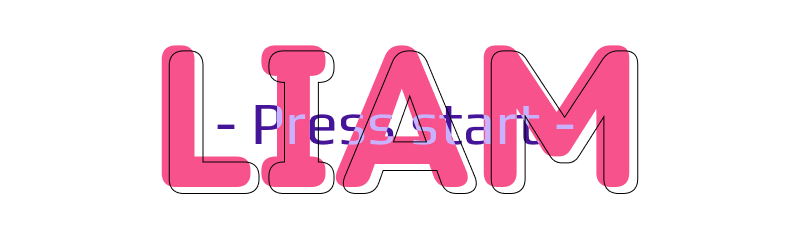
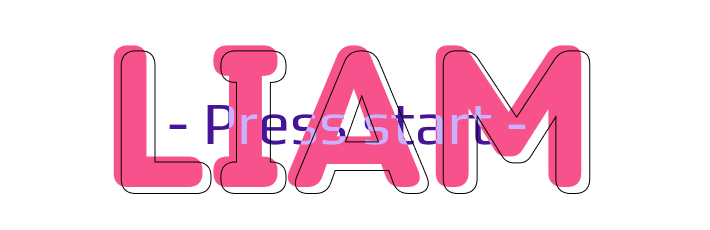
changed images and fixed responsivity

Changed region(s): [[0.1549, 0.1826, 0.8366, 0.8522]]

diff --git a/src/components/EnterRoom.tsx b/src/components/EnterRoom.tsx
@@ -10,7 +10,6 @@ interface Character {
   description: string;
   path: string;
   img: string;
-  imgWalking: string;
   door: string;
   openDoor: string;
 }
@@ -24,9 +23,8 @@ function EnterRoom() {
         "Milou, 17 år, älskar alla typer av spel och har startat en spelförening med sina vänner. Hans dröm vore att träffa en tjej med samma intressen men trots hans försök har han inte lyckats charma någon. Lika mycket energi lägger han inte på sitt skolarbete, vilket hans lärare och föräldrar ofta påpekar.",
       path: "/roomone",
       img: "/Char1_FBody.png",
-      imgWalking: "/Char1_FBody_Walk.png",
-      door: "/Char1_Door.png",
-      openDoor: "/Char1_Door_Open.png",
+      door: "/char1_w_door.png",
+      openDoor: "/char1_w_door_open.png",
     },
     {
       name: "Liam",
@@ -35,9 +33,8 @@ function EnterRoom() {
         "Sedan Liam, 20 år, hoppade av gymnasiet har det varit svårt för honom att hamna rätt. Alla chefer han har haft är dumma i huvudet och att flytta hemifrån verkar vara omöjligt. Han har en flickvän men även hon har börjat vända sig emot honom.",
       path: "/roomtwo",
       img: "/Char2_FBody.png",
-      imgWalking: "/Char2_FBody_Walk.png",
-      door: "/Char2_Door.png",
-      openDoor: "/Char2_Door_Open.png",
+      door: "/char2_w_door.png",
+      openDoor: "/char2_w_door_open.png",
     },
     {
       name: "Polka",
@@ -46,15 +43,14 @@ function EnterRoom() {
         "Polka, 18 år, är stolt samlare av limited edition plushies och japanska rollspel. Hon har alltid gillat spelkultur och följer flera cosplayers på sociala medier. Hon hade gärna cosplayat själv men har aldrig haft några nära vänner och inte vågat åka på konvent ensam. Nu har hon dock bestämt sig för att börja våga mer och börja streama hennes favoritspel.",
       path: "/roomthree",
       img: "/Char3_FBody.png",
-      imgWalking: "/Char3_FBody_Walk.png",
-      door: "/Char3_Door.png",
-      openDoor: "/Char3_Door_Open.png",
+      door: "/char3_w_door.png",
+      openDoor: "/char3_w_door_open.png",
     },
   ];
 
   return (
     <div className="w-full">
-      <ul className="m-4">
+      <ul className="m-4 mx-auto">
         {characters.map((character) => {
           return (
             <li
@@ -67,14 +63,75 @@ function EnterRoom() {
             >
               <div
                 className={`${
-                  character.name === "Liam" ? "md:ml-[100px]" : "md:mr-10"
-                }  mt-8 sm:max-w-[80%] md:max-w-[40%] xl:max-w-[30%]`}
+                  character.name === "Liam" ? "md:ml-[80px]" : "md:mr-20"
+                }  mt-8 max-w-[90%] sm:max-w-[70%] md:max-w-[40%] xl:max-w-[25%]`}
               >
-                <img
-                  className="h-auto max-w-full"
-                  src={character.nameImg}
-                  alt={character.name}
-                />
+                <div className="relative">
+                  <img
+                    className="h-auto max-w-full pt-0 md:pt-0"
+                    src={character.nameImg}
+                    alt={character.name}
+                  />
+                  {character.name === "Polka" ? (
+                    <div className="absolute top-0 left-0 h-full w-full">
+                      <motion.div
+                        className="relative top-0 -left-[10px] inline-block"
+                        initial={{ x: 0, y: 0 }}
+                        animate={{
+                          x: [0, 10, 0],
+                          y: [0, -5, 0],
+                          rotate: [0, 15, 0],
+                        }}
+                        transition={{
+                          duration: 5,
+                          repeat: Infinity,
+                        }}
+                      >
+                        <img
+                          alt="Körsbärsblomma"
+                          src="/sakura.png"
+                          className="h-[25px] w-[25px]"
+                        />
+                      </motion.div>
+                      <motion.div
+                        className="relative top-[70%] left-[20%] inline-block"
+                        initial={{ y: 0 }}
+                        animate={{ y: [0, 5, 0], rotate: [0, -15, 0] }}
+                        transition={{
+                          duration: 4,
+                          repeat: Infinity,
+                        }}
+                      >
+                        <img
+                          alt="Körsbärsblomma"
+                          src="/sakura.png"
+                          className="h-[20px] w-[20px]"
+                        />
+                      </motion.div>
+                      <motion.div
+                        className="relative -top-[10%] left-[75%] inline-block md:-top-[20%] md:left-[80%]"
+                        initial={{ y: 0 }}
+                        animate={{
+                          y: [0, 15, 0],
+                          rotate: [0, -5, 0],
+                        }}
+                        transition={{
+                          duration: 4,
+                          repeat: Infinity,
+                        }}
+                      >
+                        <img
+                          alt="Körsbärsblomma"
+                          src="/sakura.png"
+                          className="h-[20px] w-[20px] md:h-[30px] md:w-[30px]"
+                        />
+                      </motion.div>
+                    </div>
+                  ) : (
+                    ""
+                  )}
+                </div>
+
                 <div className="flex h-[25px] max-w-full justify-between bg-gradient-to-t from-primary to-primary bg-[length:100%_2px] bg-center bg-no-repeat">
                   <img
                     src="/sparkle.png"
@@ -98,11 +155,11 @@ function EnterRoom() {
               <nav>
                 <Link
                   href={character.path}
-                  className="maw-w-full mt-8 flex flex-col justify-center"
+                  className="relative flex h-[450px] w-[270px] flex-col items-end sm:h-[500px] sm:w-[300px]  md:h-[600px] md:w-[370px]"
                 >
-                  <div className="relative h-[500px] w-[250px]">
+                  <div className="relative h-full w-full">
                     {character.name === "Milou" ? (
-                      <div className="absolute top-[50px] left-[20px] w-[50px]">
+                      <div className="absolute top-[100px] left-[15px] w-[25px] md:top-[120px] md:left-0 md:w-[50px]">
                         <ul className="flex flex-col bg-[url('/swirl.png')] bg-cover bg-no-repeat">
                           <motion.li
                             initial={{ y: 0 }}
@@ -116,7 +173,7 @@ function EnterRoom() {
                             <img
                               alt="Musiknot"
                               src="/note2.png"
-                              className="ml-auto h-[30px] max-w-[20px]"
+                              className="ml-auto h-[15px] max-w-[10px] md:h-[30px] md:max-w-[20px]"
                             />
                           </motion.li>
                           <motion.li
@@ -131,7 +188,7 @@ function EnterRoom() {
                             <img
                               alt="Musiknot"
                               src="/note1.png"
-                              className="h-[30px] max-w-[20px]"
+                              className="h-[15px] max-w-[10px] md:h-[30px] md:max-w-[20px]"
                             />
                           </motion.li>
                           <motion.li
@@ -142,21 +199,20 @@ function EnterRoom() {
                             <img
                               alt="Musiknot"
                               src="/note3.png"
-                              className="ml-[30px] h-[30px] max-w-[20px]"
+                              className="ml-[15px] h-[15px] max-w-[10px] md:ml-[30px] md:h-[30px] md:max-w-[20px]"
                             />
                           </motion.li>
                         </ul>
                       </div>
                     ) : (
-                      <div></div>
+                      ""
                     )}
 
                     {character.name === "Liam" ? (
-                      <div className="absolute top-0 left-0 w-full">
+                      <div className="absolute top-0 left-0 h-full w-full">
                         <motion.div
-                          className="relative -top-[10px] right-[50px]"
-                          initial={{ scale: 1 }}
-                          animate={{ scale: [1, 1.1, 1], rotate: [0, -5, 0] }}
+                          className="relative top-[75px] right-0 sm:top-[70px] sm:right-[20px] md:top-[100px] md:right-[5px] lg:top-[50px] lg:right-[70px]"
+                          animate={{ rotate: [0, -5, 0] }}
                           transition={{
                             duration: 3,
                             repeat: Infinity,
@@ -165,75 +221,30 @@ function EnterRoom() {
                           <img
                             alt="Pratbubbla"
                             src="/bubble.png"
-                            className="h-[130px] w-[130px]"
+                            className="h-[50px] w-[50px] sm:h-[80px] sm:w-[80px] lg:h-[130px] lg:w-[130px]"
                           />
                         </motion.div>
                       </div>
                     ) : (
-                      <div></div>
+                      ""
                     )}
 
                     {character.name === "Polka" ? (
-                      <div className="absolute right-0 bottom-0 top-0 left-0 ">
+                      <div className="absolute top-0 left-0 h-full w-full overflow-hidden sm:overflow-visible">
                         <motion.div
-                          className="relative top-0 left-0 inline-block"
-                          initial={{ y: 0 }}
-                          animate={{ y: [0, 10, 0], rotate: [0, 15, 0] }}
-                          transition={{
-                            duration: 5,
-                            repeat: Infinity,
-                          }}
-                        >
-                          <img
-                            alt="Körsbärsblomma"
-                            src="/sakura.png"
-                            className="h-[30px] w-[30px]"
-                          />
-                        </motion.div>
-                        <motion.div
-                          className="relative top-[60px] left-[15px] inline-block"
-                          initial={{ y: 0 }}
-                          animate={{ y: [0, 5, 0], rotate: [0, -15, 0] }}
-                          transition={{
-                            duration: 4,
-                            repeat: Infinity,
-                          }}
-                        >
-                          <img
-                            alt="Körsbärsblomma"
-                            src="/sakura.png"
-                            className="h-[30px] w-[30px]"
-                          />
-                        </motion.div>
-                        <motion.div
-                          className="relative -top-[70px] left-[80px] inline-block"
-                          initial={{ y: 0 }}
-                          animate={{ y: [0, 15, 0], rotate: [0, 10, 0] }}
-                          transition={{
-                            duration: 4,
-                            repeat: Infinity,
-                          }}
-                        >
-                          <img
-                            alt="Körsbärsblomma"
-                            src="/sakura.png"
-                            className="h-[30px] w-[30px]"
-                          />
-                        </motion.div>
-                        <motion.div
-                          className="relative top-[410px] left-[240px] inline-block"
+                          className="relative top-[335px] left-[220px] z-10 inline-block sm:top-[385px] sm:left-[250px] md:top-[470px] md:left-[80%]"
                           animate={{ rotate: [0, 10, 0] }}
                           transition={{ duration: 4, repeat: Infinity }}
                         >
                           <img
                             alt="Nallebjörn"
                             src="/teddy.png"
-                            className="h-[70px] w-[70px]"
+                            className="h-[50px] w-[50px] md:h-[70px] md:w-[70px]"
                           />
                         </motion.div>
                       </div>
                     ) : (
-                      <div></div>
+                      ""
                     )}
 
                     <motion.div
@@ -243,33 +254,21 @@ function EnterRoom() {
                       className="relative h-full w-full"
                     >
                       <img
-                        src={character.img}
-                        alt="Karaktär"
-                        className="absolute left-0 bottom-0 z-10 max-h-[90%]"
-                      />
-                      <img
-                        className="absolute left-[90px] top-0 h-full w-full"
+                        className="absolute bottom-0 max-w-full"
                         src={character.door}
-                        alt="Dörr till karaktärs rum"
+                        alt={`Gå till ${character}s rum`}
                       />
                     </motion.div>
 
-                    <div className="absolute top-0 left-0 -z-50 h-full w-full">
-                      <img
-                        src={character.img}
-                        alt="Karaktär som går"
-                        className="absolute left-0 bottom-0 z-10 max-h-[90%]"
-                      />
-                      <img
-                        className="absolute left-[90px] top-0 h-full w-full"
-                        src={character.openDoor}
-                        alt="Öppen dörr till karaktärs rum"
-                      />
-                    </div>
+                    <img
+                      className="absolute bottom-0 -z-50 max-w-full"
+                      src={character.openDoor}
+                      alt={`Gå till ${character}s rum`}
+                    />
                   </div>
 
-                  <div className="relative mx-auto mt-4 min-h-[40px] min-w-[245px] rounded-full outline outline-1 outline-offset-[1px] outline-black">
-                    <div className="absolute -top-[6px] right-[4px] -z-10 flex min-w-[250px] max-w-[275px] items-center justify-center rounded-full bg-accent px-2 py-2">
+                  <div className="relative mt-4 mr-1 min-h-[40px] w-[95%] rounded-full outline outline-1 outline-offset-[1px] outline-black">
+                    <div className="absolute -top-[6px] right-[6px] -z-10 flex w-full items-center justify-center rounded-full bg-accent px-2 py-2">
                       <p className="mr-2 text-lg font-bold text-white ">
                         Gå till {character.name}s rum
                       </p>
